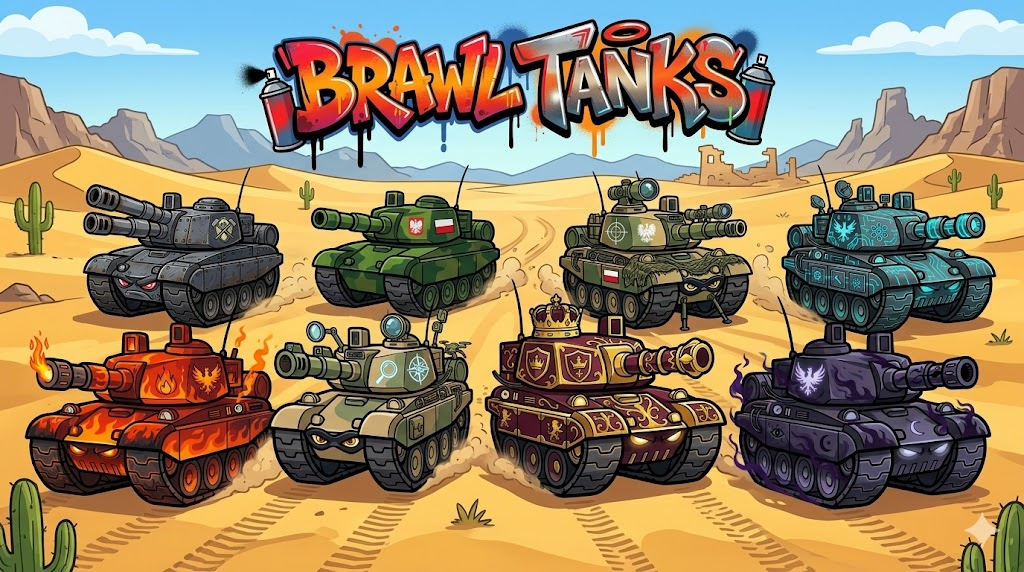
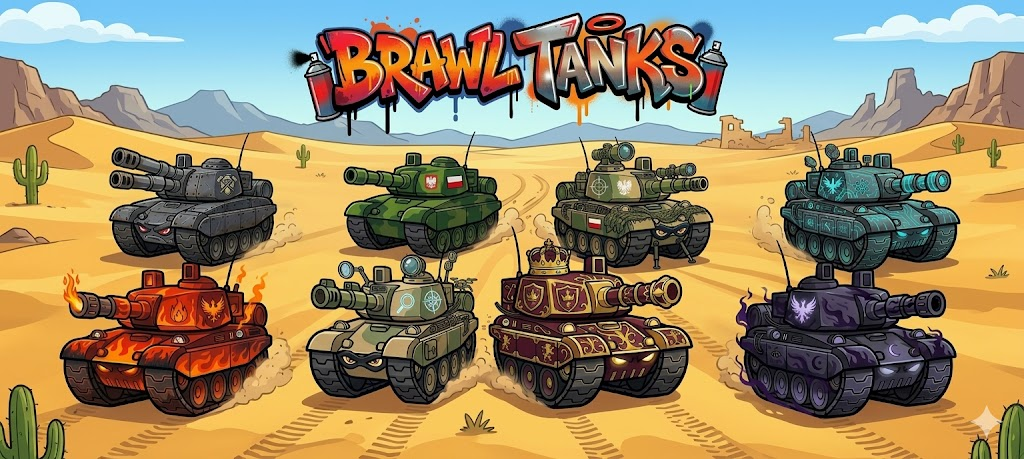
opisy i nowe welcome page

diff --git a/index.html b/index.html
@@ -292,9 +292,10 @@
         /* Instructions screen */
         .instr-section { width: 100%; margin-bottom: 16px; }
         .instr-section h3 {
-            font-size: 1.3rem; color: #fff; background: #27ae60;
-            padding: 6px 18px; border-radius: 14px; border: 3px solid #2c3e50;
+            font-size: 1.2rem; color: #fff; background: #27ae60;
+            padding: 6px 20px; border-radius: 14px; border: 3px solid #2c3e50;
             box-shadow: 3px 3px 0 #2c3e50; display: inline-block; margin: 0 0 10px 0;
+            font-family: 'Lilita One', cursive; text-transform: uppercase; letter-spacing: 0.04em;
         }
         .instr-grid-4 { display: grid; grid-template-columns: repeat(4,1fr); gap: 8px; }
         .instr-grid-2 { display: grid; grid-template-columns: repeat(2,1fr); gap: 8px; }
@@ -302,13 +303,13 @@
             background: #ecf0f1; border: 3px solid #2c3e50; border-radius: 12px;
             padding: 10px 8px; text-align: center; box-shadow: 0 4px 0 #2c3e50;
         }
-        .instr-card .ic-icon { font-size: 1.6rem; margin-bottom: 4px; }
+        .instr-card .ic-icon { font-size: 1.5rem; margin-bottom: 5px; line-height:1.2; }
         .instr-card .ic-key {
-            font-size: 1rem; font-weight: bold; background: #2c3e50; color: #f1c40f;
-            border-radius: 6px; padding: 3px 8px; display: inline-block; margin-bottom: 4px;
+            font-size: 0.95rem; font-weight: bold; background: #2c3e50; color: #f1c40f;
+            border-radius: 6px; padding: 4px 10px; display: inline-block; margin-bottom: 5px;
             font-family: monospace; letter-spacing: 1px;
         }
-        .instr-card .ic-label { font-size: 0.85rem; color: #555; font-family: sans-serif; font-weight: bold; line-height: 1.3; }
+        .instr-card .ic-label { font-size: 0.88rem; color: #333; font-family: sans-serif; font-weight: bold; line-height: 1.3; }
         .instr-row {
             display: flex; align-items: flex-start; gap: 10px;
             background: #ecf0f1; border: 2px solid #2c3e50; border-radius: 10px;
@@ -361,7 +362,7 @@
     <div id="credits">
         Game Designers: <span class="credits-names">Michał i Mariusz Poparda</span><br>
         Created with ❤️ in Bielsko-Biała, Poland<br>
-        Game version: v2.0
+        Game version: v2.1
     </div>
 
     <div id="welcomeScreenWrapper"></div>
@@ -405,72 +406,90 @@
             <h2>Wybierz otoczenie</h2>
             <div class="grid-container map-grid" id="mapGrid"></div>
 
-            <h2>Emotki w grze</h2>
-            <div style="display:flex;gap:10px;justify-content:center;margin-bottom:10px;">
-                <div class="select-card" style="pointer-events:none;flex:1;padding:10px;">
-                    <div style="font-size:2rem;">😂</div>
-                    <div class="stats" style="margin-top:4px;">Klawisz 1</div>
-                </div>
-                <div class="select-card" style="pointer-events:none;flex:1;padding:10px;">
-                    <div style="font-size:2rem;">😡</div>
-                    <div class="stats" style="margin-top:4px;">Klawisz 2</div>
-                </div>
-                <div class="select-card" style="pointer-events:none;flex:1;padding:10px;">
-                    <div style="font-size:2rem;">👍</div>
-                    <div class="stats" style="margin-top:4px;">Klawisz 3</div>
-                </div>
-                <div class="select-card" style="pointer-events:none;flex:1;padding:10px;">
-                    <div style="font-size:2rem;">👎</div>
-                    <div class="stats" style="margin-top:4px;">Klawisz 4</div>
-                </div>
-            </div>
-
             <button class="brawl-btn" id="startBtn">Graj!</button>
-            <button class="brawl-btn-sm" id="instrBtn">📖 Jak Grać?</button>
+            <button class="brawl-btn-sm" id="instrBtn">📖 HOW TO PLAY</button>
         </div>
 
         <!-- INSTRUCTIONS SCREEN -->
         <div id="instructionsScreen" class="screen" style="max-width:860px;">
-            <h1 style="font-size:3rem;margin-bottom:6px;">📖 Jak Grać?</h1>
+            <h1 style="font-size:2.8rem;margin-bottom:6px;">HOW TO PLAY</h1>
 
             <div class="instr-section">
                 <h3>🕹️ Sterowanie</h3>
                 <div class="instr-grid-4">
                     <div class="instr-card"><div class="ic-key">W A S D</div><div class="ic-label">Ruszaj czołgiem</div></div>
                     <div class="instr-card"><div class="ic-icon">🖱️</div><div class="ic-label">Celuj wieżyczką</div></div>
-                    <div class="instr-card"><div class="ic-icon">🖱️ klik<br>lub Spacja</div><div class="ic-label">Strzelaj!</div></div>
-                    <div class="instr-card"><div class="ic-key">1 2 3 4</div><div class="ic-label">Emotikony 😂😡👍👎</div></div>
+                    <div class="instr-card"><div class="ic-icon">LPM / Spacja</div><div class="ic-label">Strzelaj!</div></div>
+                    <div class="instr-card"><div class="ic-key">1 2 3 4</div><div class="ic-label">Emotikony</div></div>
+                    <div class="instr-card"><div class="ic-icon">PPM</div><div class="ic-label">Użyj Super Mocy</div></div>
+                    <div class="instr-card"><div class="ic-icon">Scroll</div><div class="ic-label">Zmień Super Moc</div></div>
                 </div>
             </div>
 
             <div class="instr-section">
-                <h3>🗺️ Co leży na mapie?</h3>
+                <h3>🗺️ Co jest na mapie</h3>
                 <div class="instr-grid-2">
-                    <div class="instr-row"><div class="ir-icon">💎</div><div class="ir-body"><div class="ir-title">Gem (zielony diament)</div><div class="ir-desc">Zbieraj je! To twój wynik. Co 10 gemów → ładujesz Super strzał.</div></div></div>
+                    <div class="instr-row"><div class="ir-icon">💎</div><div class="ir-body"><div class="ir-title">Gem</div><div class="ir-desc">Zbieraj je! To twój wynik. Co 10 gemów → ładujesz Super strzał.</div></div></div>
                     <div class="instr-row"><div class="ir-icon">⚡</div><div class="ir-body"><div class="ir-title">Power Cube</div><div class="ir-desc">Czerwony ⚔ = +5% siła strzałów. Niebieski 💙 = +trochę HP. Wrogowie też po nie biegną!</div></div></div>
                     <div class="instr-row"><div class="ir-icon">❤️</div><div class="ir-body"><div class="ir-title">Apteczka</div><div class="ir-desc">Leczy 1 punkt HP. Znika po chwili — spiesz się!</div></div></div>
                     <div class="instr-row"><div class="ir-icon">🌿</div><div class="ir-body"><div class="ir-title">Krzaki</div><div class="ir-desc">Wejdź w nie i wrogowie cię nie widzą! Ale nie strzelaj — strzelanie cię odkrywa.</div></div></div>
                     <div class="instr-row"><div class="ir-icon">🧱</div><div class="ir-body"><div class="ir-title">Ściany</div><div class="ir-desc">Blokują ruch i pociski. Chowaj się za nimi podczas walki.</div></div></div>
-                    <div class="instr-row"><div class="ir-icon">🔴</div><div class="ir-body"><div class="ir-title">Granica mapy</div><div class="ir-desc">Czerwona linia = koniec świata. Nie wychodź poza nią!</div></div></div>
+                    <div class="instr-row"><div class="ir-icon">🔧</div><div class="ir-body"><div class="ir-title">Hangar naprawczy</div><div class="ir-desc">Stań nieruchomo 3s → +1 HP. Cooldown 60s. Wrogowie cię atakują!</div></div></div>
+                    <div class="instr-row"><div class="ir-icon">⚡</div><div class="ir-body"><div class="ir-title">Studnia mocy</div><div class="ir-desc">Dotknij → ×2 prędkość na 8 sekund! Cooldown 45s.</div></div></div>
+                    <div class="instr-row"><div class="ir-icon">⚠️</div><div class="ir-body"><div class="ir-title">Ruchome piaski</div><div class="ir-desc">Żółte strefy — zwalniają czołg o 50%! Omijaj je gdy uciekasz.</div></div></div>
                 </div>
             </div>
 
             <div class="instr-section">
                 <h3>💜 Super strzał</h3>
-                <div class="instr-row"><div class="ir-icon">💎→💜</div><div class="ir-body"><div class="ir-title">Jak naładować?</div><div class="ir-desc">Zbierz <b>10 gemów</b> → dostajesz <b>3 ładunki Super</b>. Pasek na dole ekranu pokazuje postęp (💎 X/10).</div></div></div>
-                <div class="instr-row"><div class="ir-icon">💥</div><div class="ir-body"><div class="ir-title">Co daje Super?</div><div class="ir-desc">Super strzał jest <b>3× silniejszy</b> i szerszy. Następny strzał automatycznie zużywa ładunek.</div></div></div>
+                <div class="instr-row"><div class="ir-icon">💎→💜</div><div class="ir-body"><div class="ir-title">Jak naładować?</div><div class="ir-desc">Zbierz <b>10 gemów</b> → dostajesz ładunek Super. Pasek na dole pokazuje postęp.</div></div></div>
+                <div class="instr-row"><div class="ir-icon">💥</div><div class="ir-body"><div class="ir-title">Co daje Super?</div><div class="ir-desc">Super strzał jest <b>3× silniejszy</b> i działa przez <b>5 sekund</b> ciągłego strzelania.</div></div></div>
+            </div>
+
+            <div class="instr-section">
+                <h3>⚡ Super moce</h3>
+                <div class="instr-grid-2">
+                    <div class="instr-row"><div class="ir-icon" style="font-size:1.3rem;color:#f1c40f;">◎</div><div class="ir-body"><div class="ir-title">AURA — kuloodporność</div><div class="ir-desc">Żółto-pomarańczowe fale chronią czołg. Żaden pocisk nie może cię trafić przez 5s. Cooldown 30s.</div></div></div>
+                    <div class="instr-row"><div class="ir-icon" style="font-size:1.3rem;color:#ff7c47;">✦</div><div class="ir-body"><div class="ir-title">MEGA BOMB — eksplozja</div><div class="ir-desc">Niszczy WSZYSTKICH wrogów w promieniu 230px. Drży ekran! Cooldown 20s.</div></div></div>
+                    <div class="instr-row" style="grid-column:1/-1;"><div class="ir-icon" style="font-size:1.3rem;color:#70ccff;">❋</div><div class="ir-body"><div class="ir-title">FREEZE — zatrzymanie czasu</div><div class="ir-desc">Zamraża wszystkich wrogów i ich pociski na 5 sekund. Ty nadal możesz się ruszać i strzelać! Cooldown 25s.</div></div></div>
+                </div>
+                <p style="font-family:sans-serif;font-size:0.8rem;color:#777;margin:6px 0 0;"><b>Jak używać:</b> Scroll kółkiem myszy = wybierz moc → PPM (prawy klik) = aktywuj</p>
             </div>
 
             <div class="instr-section">
                 <h3>🤖 Wrogowie</h3>
                 <div class="instr-grid-2">
-                    <div class="instr-row"><div class="ir-icon">🔴</div><div class="ir-body"><div class="ir-title">Zwykły wróg</div><div class="ir-desc">Goni cię po mapie i strzela. Co trudniejszy poziom — więcej ich i szybciej.</div></div></div>
-                    <div class="instr-row"><div class="ir-icon">👾</div><div class="ir-body"><div class="ir-title">BOSS (co 20 kill)</div><div class="ir-desc">Duży fioletowy czołg z <b>10× HP</b>. Strzela potrójnie! Użyj Super i obchodź z boku.</div></div></div>
+                    <div class="instr-row">
+                        <div class="ir-icon">
+                            <svg width="44" height="34" viewBox="-22 -17 44 34" xmlns="http://www.w3.org/2000/svg">
+                                <rect x="-20" y="-13" width="40" height="5" rx="2" fill="#1c1c1c"/>
+                                <rect x="-20" y="8" width="40" height="5" rx="2" fill="#1c1c1c"/>
+                                <rect x="-18" y="-9" width="36" height="18" rx="3" fill="#c0392b" stroke="#000" stroke-width="1.5"/>
+                                <circle cx="0" cy="0" r="7" fill="#7b241c" stroke="#000" stroke-width="1.5"/>
+                                <rect x="6" y="-2" width="13" height="4" rx="1" fill="#484848" stroke="#111" stroke-width="1"/>
+                            </svg>
+                        </div>
+                        <div class="ir-body"><div class="ir-title">Zwykły wróg</div><div class="ir-desc">Goni cię po mapie i strzela. Co trudniejszy poziom — więcej ich i szybciej.</div></div>
+                    </div>
+                    <div class="instr-row">
+                        <div class="ir-icon">
+                            <svg width="54" height="44" viewBox="-27 -22 54 44" xmlns="http://www.w3.org/2000/svg">
+                                <rect x="-24" y="-17" width="48" height="6" rx="2" fill="#1c1c1c"/>
+                                <rect x="-24" y="11" width="48" height="6" rx="2" fill="#1c1c1c"/>
+                                <rect x="-22" y="-12" width="44" height="24" rx="3" fill="#7d3c98" stroke="#000" stroke-width="1.5"/>
+                                <polyline points="-8,-12 -8,-18 -4,-14.5 0,-19 4,-14.5 8,-18 8,-12" stroke="#d7bde2" stroke-width="1.2" fill="none"/>
+                                <circle cx="0" cy="0" r="9" fill="#4a235a" stroke="#000" stroke-width="1.5"/>
+                                <rect x="8" y="-5" width="13" height="3.5" rx="1" fill="#484848" stroke="#111" stroke-width="1"/>
+                                <rect x="8" y="1.5" width="13" height="3.5" rx="1" fill="#484848" stroke="#111" stroke-width="1"/>
+                            </svg>
+                        </div>
+                        <div class="ir-body"><div class="ir-title">BOSS (co 20 kill)</div><div class="ir-desc">Duży fioletowy czołg z <b>10× HP</b>. Strzela potrójnie! Użyj Super i obchodź z boku.</div></div>
+                    </div>
                 </div>
             </div>
 
             <div class="instr-section">
-                <h3>🏆 Ocena gwiazdkowa</h3>
+                <h3>🏆 Ocena gracza</h3>
                 <p style="font-family:sans-serif;font-size:0.9rem;color:#555;margin:0 0 8px;">Na koniec gry dostajesz 1–5 gwiazdek. Im lepiej grasz, tym więcej!</p>
                 <div style="font-family:sans-serif;font-size:0.85rem;color:#2c3e50;">
                     <div class="star-row"><span class="star-badge">⭐</span> <span>Debiutant — dopiero zaczynasz</span></div>
@@ -478,24 +497,25 @@
                     <div class="star-row"><span class="star-badge">⭐⭐⭐</span> <span>Obiecujący Rekrut</span></div>
                     <div class="star-row"><span class="star-badge">⭐⭐⭐⭐</span> <span>Doświadczony Bojownik</span></div>
                     <div class="star-row"><span class="star-badge">⭐⭐⭐⭐⭐</span> <span>🏆 Legendarny Tankista — najlepszy z najlepszych!</span></div>
-                    <p style="font-size:0.8rem;color:#777;margin:8px 0 0;">Liczy się: czas przetrwania + zabici wrogowie + gemy + celność strzałów + supertrzały</p>
+                    <p style="font-size:0.8rem;color:#777;margin:8px 0 0;">Liczy się: czas przetrwania + wrogowie + gemy + celność + supertrzały + super moce</p>
                 </div>
             </div>
 
             <div class="instr-section">
-                <h3>📊 Statystyki po meczu</h3>
+                <h3>📊 Statystyki</h3>
                 <div class="instr-grid-2">
                     <div class="instr-row" style="padding:7px 10px;"><div class="ir-icon" style="font-size:1.2rem;">💎</div><div class="ir-body"><div class="ir-title" style="font-size:0.9rem;">Gemy</div><div class="ir-desc">Twój wynik — ile gemów zebrałeś.</div></div></div>
                     <div class="instr-row" style="padding:7px 10px;"><div class="ir-icon" style="font-size:1.2rem;">💥</div><div class="ir-body"><div class="ir-title" style="font-size:0.9rem;">Zniszczeni wrogowie</div><div class="ir-desc">Ilu przeciwników zniszczyłeś.</div></div></div>
                     <div class="instr-row" style="padding:7px 10px;"><div class="ir-icon" style="font-size:1.2rem;">⏱️</div><div class="ir-body"><div class="ir-title" style="font-size:0.9rem;">Czas przetrwania</div><div class="ir-desc">Jak długo żyłeś w tym meczu.</div></div></div>
                     <div class="instr-row" style="padding:7px 10px;"><div class="ir-icon" style="font-size:1.2rem;">🎯</div><div class="ir-body"><div class="ir-title" style="font-size:0.9rem;">Celność</div><div class="ir-desc">Ile % twoich strzałów trafiło w cel.</div></div></div>
-                    <div class="instr-row" style="padding:7px 10px;"><div class="ir-icon" style="font-size:1.2rem;">💜</div><div class="ir-body"><div class="ir-title" style="font-size:0.9rem;">Supertrzały</div><div class="ir-desc">Ile razy użyłeś Super strzału.</div></div></div>
+                    <div class="instr-row" style="padding:7px 10px;"><div class="ir-icon" style="font-size:1.2rem;">💜</div><div class="ir-body"><div class="ir-title" style="font-size:0.9rem;">Supertrzały</div><div class="ir-desc">Ile razy użyłeś specjalnego Super strzału.</div></div></div>
                     <div class="instr-row" style="padding:7px 10px;"><div class="ir-icon" style="font-size:1.2rem;">❤️</div><div class="ir-body"><div class="ir-title" style="font-size:0.9rem;">Apteczki</div><div class="ir-desc">Ile apteczek zebrałeś w trakcie walki.</div></div></div>
                     <div class="instr-row" style="padding:7px 10px;"><div class="ir-icon" style="font-size:1.2rem;">⚡</div><div class="ir-body"><div class="ir-title" style="font-size:0.9rem;">Power Cuby</div><div class="ir-desc">Ile cube'ów zebrałeś i jakie bonusy dostałeś.</div></div></div>
+                    <div class="instr-row" style="padding:7px 10px;"><div class="ir-icon" style="font-size:1.2rem;">⚡</div><div class="ir-body"><div class="ir-title" style="font-size:0.9rem;">Użyte super moce</div><div class="ir-desc">Ile razy użyłeś AURA, MEGA BOMB lub FREEZE.</div></div></div>
                 </div>
             </div>
 
-            <button class="brawl-btn" id="backFromInstr">⬅️ Powrót do Menu</button>
+            <button class="brawl-btn" id="backFromInstr">⬅️ MENU GŁÓWNE</button>
         </div>
 
         <!-- GAME OVER SCREEN -->
@@ -512,6 +532,7 @@
                 <tr><td>💜 Supertrzały oddane</td><td id="statSupers">0</td></tr>
                 <tr><td>❤️ Apteczki zebrane</td><td id="statHearts">0</td></tr>
                 <tr><td>⚡ Power Cuby</td><td id="statCubes">0</td></tr>
+                <tr><td>⚡ Użyte super moce</td><td id="statPowers">0</td></tr>
             </table>
 
             <button class="brawl-btn" id="restartBtn">Powrót do Menu Głównego</button>
@@ -2344,6 +2365,7 @@
             const p=SUPER_POWERS[selectedPower];
             if(now<powerCooldowns[selectedPower]) return;
             powerCooldowns[selectedPower]=now+p.COOLDOWN;
+            stats.powersUsed++;
             if(selectedPower===0){ // AURA
                 auraActive=true; auraEndTime=now+5000;
                 floatingTexts.push(new FloatingText(player.x,player.y-55,'⚡ AURA!','#f1c40f'));
@@ -2462,6 +2484,7 @@
                 ? `${stats.cubesTotal} (${dmgPct>0?'+'+dmgPct+'%DMG ':''} ${parseFloat(hpGain)>0?'+'+hpGain+'HP':''})`
                 : '0';
             document.getElementById('statCubes').innerText = cubeStr.replace(/\s+/g,' ').trim();
+            document.getElementById('statPowers').innerText = stats.powersUsed;
 
             // Star rating formula (0-100 points):
             // Przetrwanie: 1 pkt co 8s, maks 25
@@ -2829,7 +2852,7 @@
             generateMap();
             bullets = []; enemies = []; gems = []; hearts = []; particles = []; powerCubes = []; floatingTexts = [];
             trackMarks = []; bombExplosion = null;
-            frames = 0; gameTime = 0; stats = { kills: 0, score: 0, bulletsFired: 0, bulletsHit: 0, supersFired: 0, heartsCollected: 0, dmgBonus: 0, cubesTotal: 0 };
+            frames = 0; gameTime = 0; stats = { kills: 0, score: 0, bulletsFired: 0, bulletsHit: 0, supersFired: 0, heartsCollected: 0, dmgBonus: 0, cubesTotal: 0, powersUsed: 0 };
             superCharges = 0; superActive = false; superEndTime = 0; gemsSinceLastSuper = 0;
             auraActive = false; auraEndTime = 0; freezeActive = false; freezeEndTime = 0;
             powerCooldowns = [0, 0, 0]; selectedPower = 0; shakeX = 0; shakeY = 0; shakeTimer = 0;